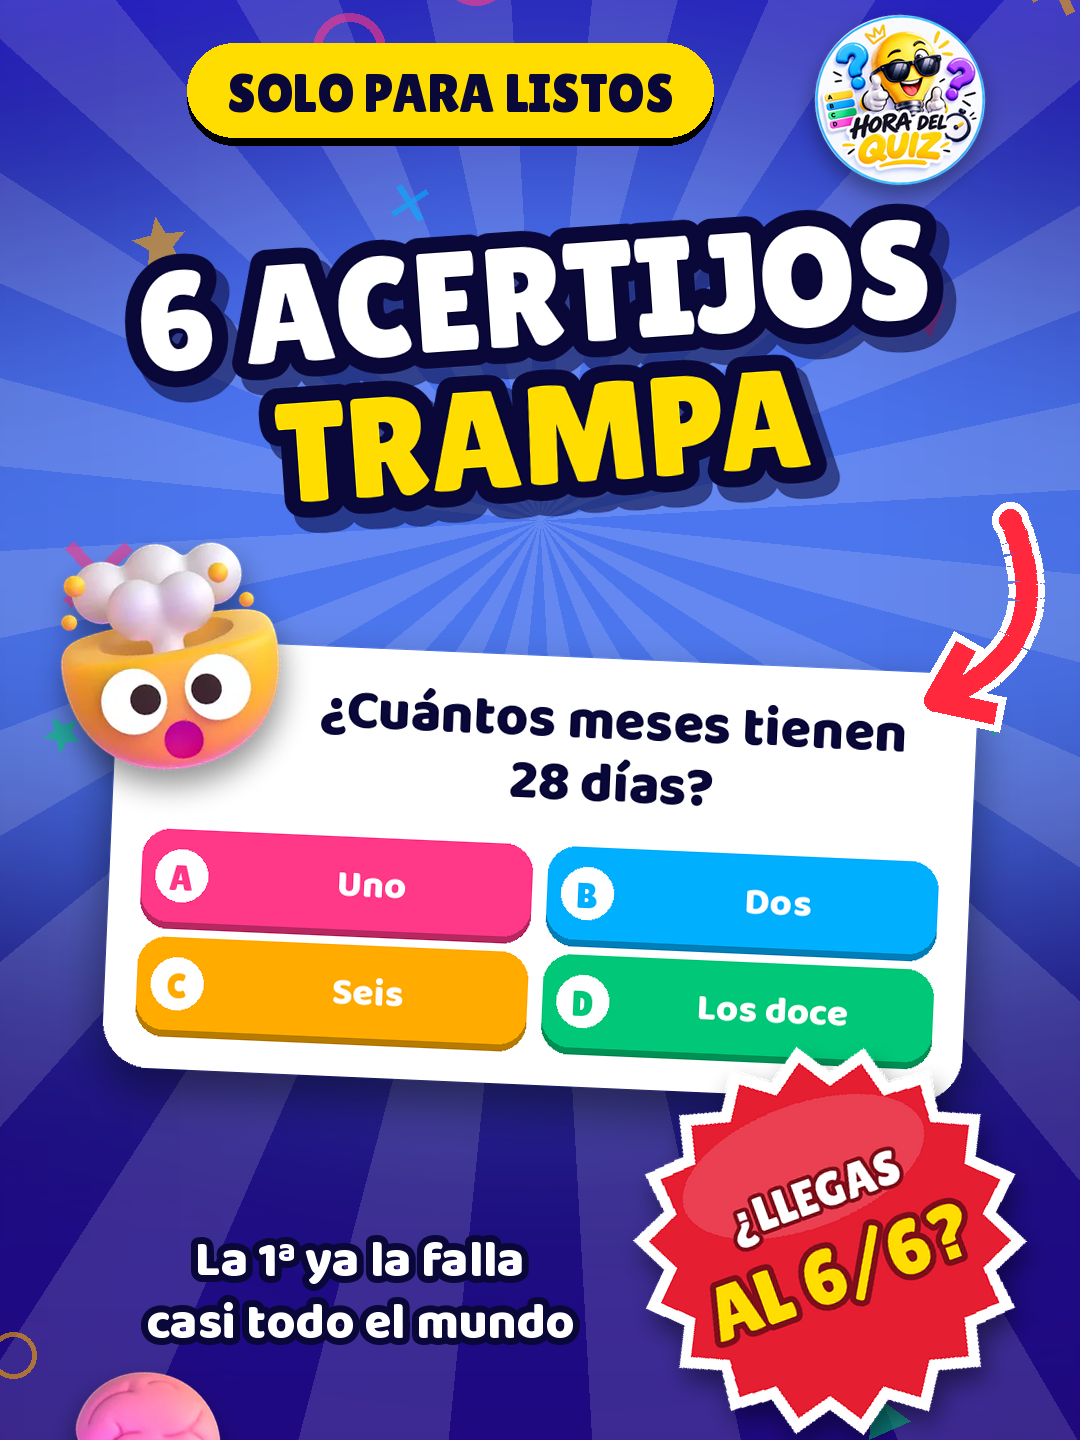
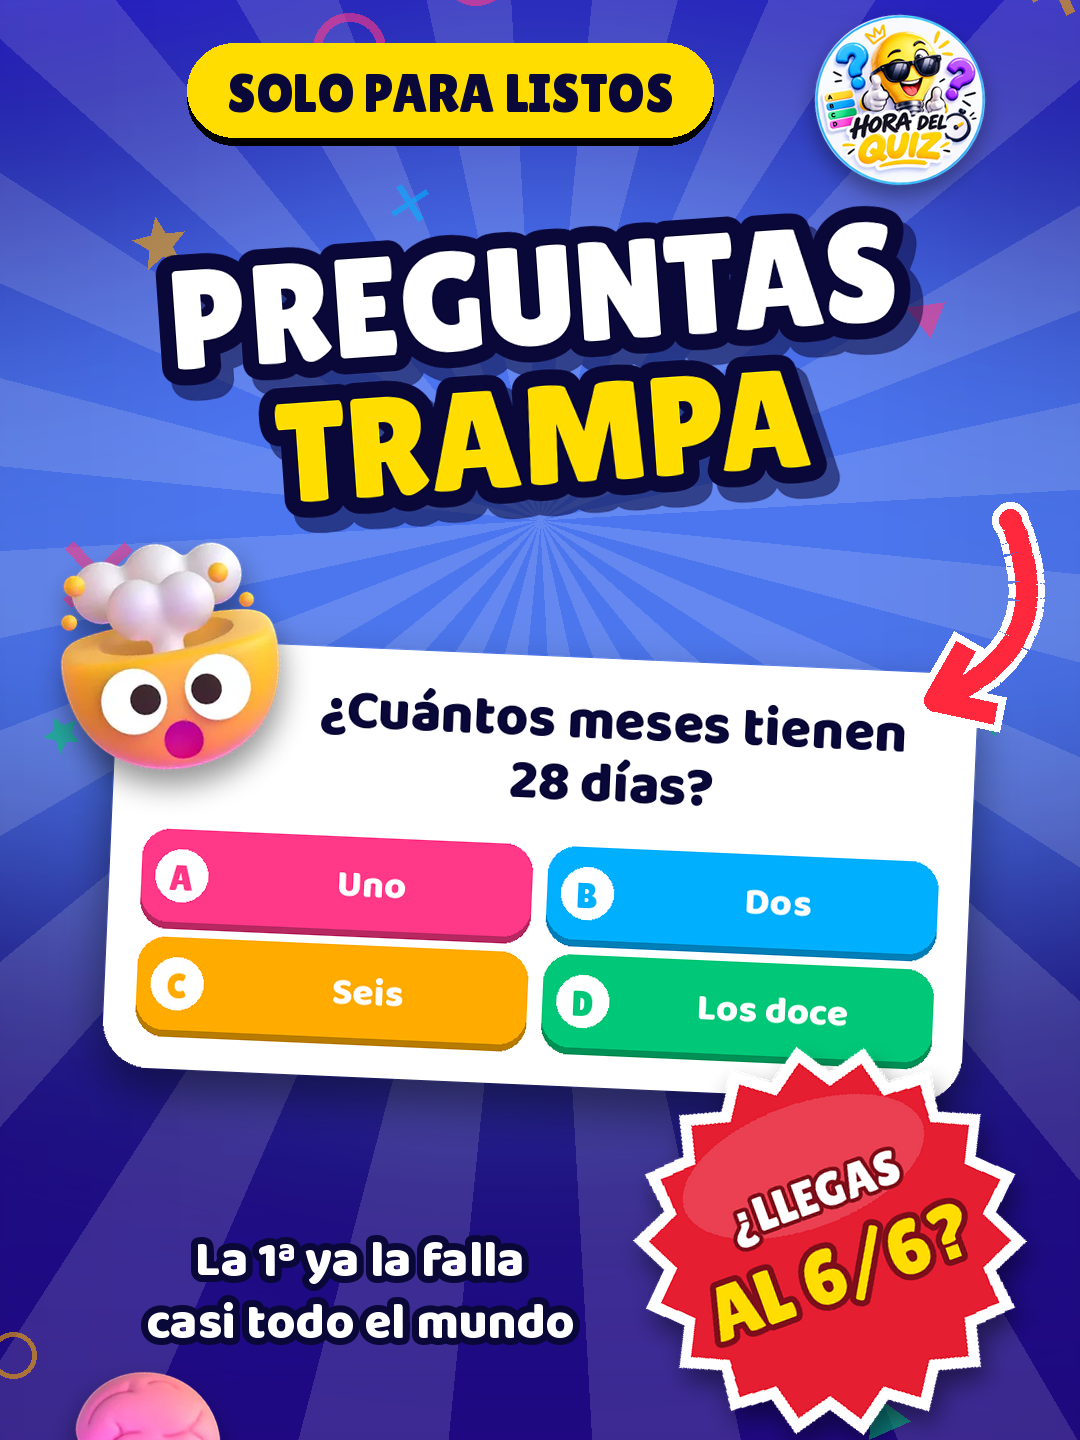
Portada del quiz 2: titular 'Preguntas trampa'
Claude-Session: https://claude.ai/code/session_01FgZK37A5yR6qScbYrERJem

Changed region(s): [[0.0917, 0.125, 0.8861, 0.2812]]

diff --git a/quiz-video/portada.py b/quiz-video/portada.py
@@ -37,7 +37,7 @@ PORTADAS = {
     "hora_del_quiz_02": {
         "paleta": lambda: themes.paleta_desde_tono(themes.elegir_tono("hora_del_quiz_02")),
         "arriba": "SOLO PARA LISTOS",
-        "titulo": [("6 ACERTIJOS", "w"), ("TRAMPA", "a")],
+        "titulo": [("PREGUNTAS", "w"), ("TRAMPA", "a")],
         "tam": 140,
         "pregunta": 0,
         "emoji": "mente_explota", "emoji2": "cerebro",
